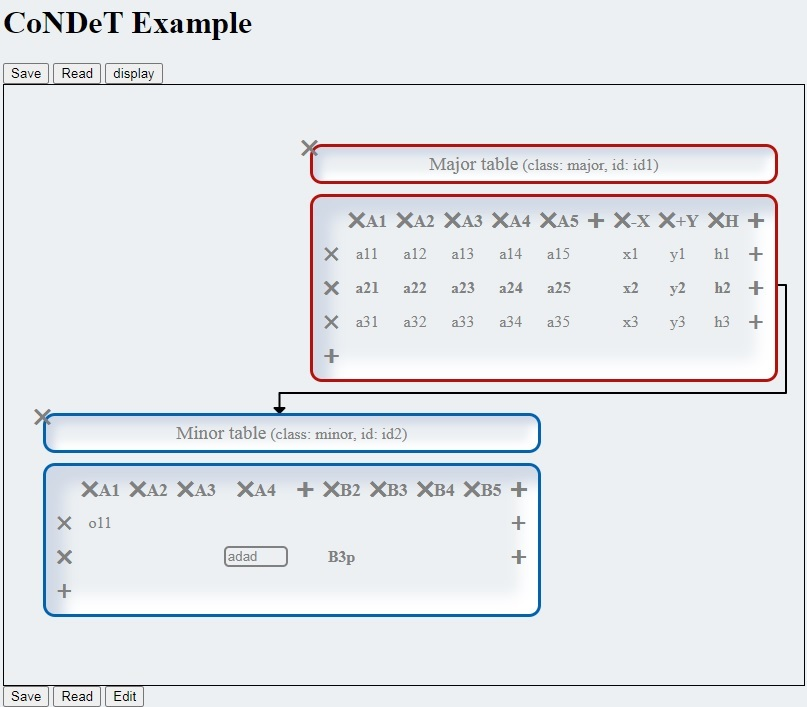
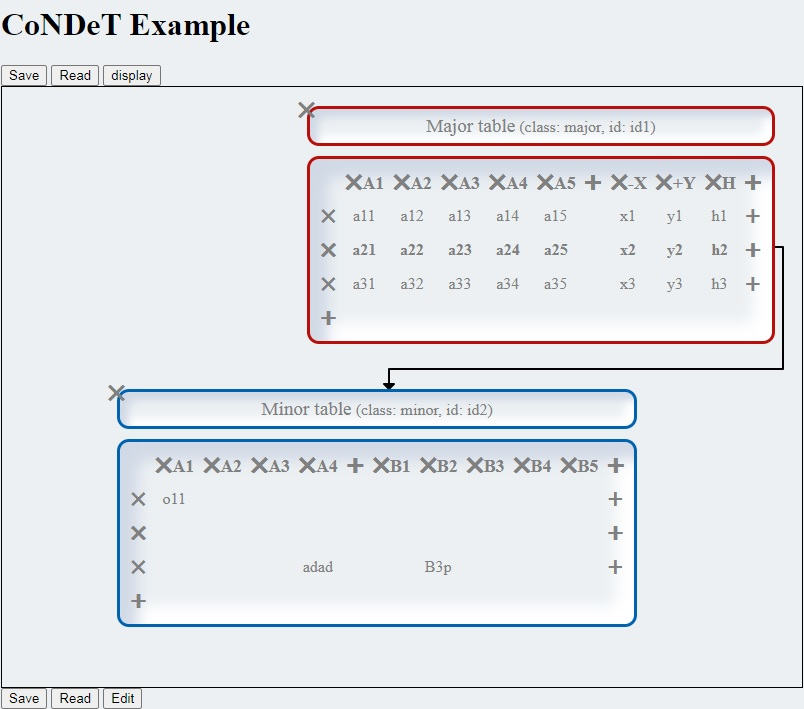
docs: modify pictrues add part of usage

diff --git a/docs/documentation.md b/docs/documentation.md
@@ -34,20 +34,124 @@ Library is fully functional with ways to improve. During development we were abl
 
 #### 4 Usage
 
+1. Ability to move ConDeT table freely on window:
+    
+    State before moving:
+    
+    ![](https://github.com/EmilSroka/CoNDeT/blob/main/docs/Pictures/Display1.jpg?raw=true )
 
-User have ability to move frely  
-![](https://github.com/EmilSroka/CoNDeT/blob/main/docs/Pictures/Displa1.jpg?raw=true )
+    State after moving:
 ![](https://github.com/EmilSroka/CoNDeT/blob/main/docs/Pictures/Displa2.jpg?raw=true )
-![](https://github.com/EmilSroka/CoNDeT/blob/main/docs/Pictures/EditMode1.jpg?raw=true)
-![](https://github.com/EmilSroka/CoNDeT/blob/main/docs/Pictures/editmode2.jpg?raw=true )
-![](https://github.com/EmilSroka/CoNDeT/blob/main/docs/Pictures/editmode3rcolumn.jpg?raw=true )
-![](https://github.com/EmilSroka/CoNDeT/blob/main/docs/Pictures/editmode4rrow.jpg?raw=true )
-![](https://github.com/EmilSroka/CoNDeT/blob/main/docs/Pictures/editmode5modifycell1.jpg?raw=true )
-![](https://github.com/EmilSroka/CoNDeT/blob/main/docs/Pictures/editmode6modiffcell2.jpg?raw=true )
-![](https://github.com/EmilSroka/CoNDeT/blob/main/docs/Pictures/editmode7modiffytableproperties.jpg?raw=true )
-![](https://github.com/EmilSroka/CoNDeT/blob/main/docs/Pictures/editmode8addconnection.jpg?raw=true )
-![](https://github.com/EmilSroka/CoNDeT/blob/main/docs/Pictures/editMode9deleteTable.jpg?raw=true )
-![](https://github.com/EmilSroka/CoNDeT/blob/main/docs/Pictures/editMode10addTable.jpg?raw=true )
+
+    As we can see tables moved in our window but their state state didn't change between them 
+
+2. Ability to change connection state in edit mode
+   
+   State before changing moving table:
+
+    ![](https://github.com/EmilSroka/CoNDeT/blob/main/docs/Pictures/EditMode1.jpg?raw=true)
+
+    State after moving table:
+
+    ![](https://github.com/EmilSroka/CoNDeT/blob/main/docs/Pictures/editmode2.jpg?raw=true )
+
+    As we can see unlike in display mode state of connection between two tables changed
+
+3.  Ability to remove column:
+
+    To remove column you need to click **X**  visable on top of choosen column in lower table
+
+    ![](https://github.com/EmilSroka/CoNDeT/blob/main/docs/Pictures/editmode3rcolumn.jpg?raw=true )
+
+    As we can see colummn B1 was deleted from Minor table
+
+4. Ability to remove row
+
+    To remove row you need click **X** visable on left side of choosen column in lower table
+
+    ![](https://github.com/EmilSroka/CoNDeT/blob/main/docs/Pictures/editmode4rrow.jpg?raw=true )
+
+    Second row in Minor table was removed
+
+5. Ability to modify cell
+
+    To modify cell we need to double click choosen cell 
+
+    ![](https://github.com/EmilSroka/CoNDeT/blob/main/docs/Pictures/editmode5modifycell1.jpg?raw=true )
+
+    After double click cell goes in edit mode and we can enter our data. To close cell edit mode we need to press **ENTER** that will close cell edit and save our modification
+
+    ![](https://github.com/EmilSroka/CoNDeT/blob/main/docs/Pictures/editmode6modiffcell2.jpg?raw=true )
+
+    We can see new data inserted into our cell
+
+6. Ability to modify table properties
+
+    To modify table properties we need to double click on top table part. That will allow us to enter edit mode  
+
+    ![](https://github.com/EmilSroka/CoNDeT/blob/main/docs/Pictures/editmode7modiffytableproperties.jpg?raw=true )
+
+    After double click we table properties goes to edit mode and we can modify them. To close edit mode and save our modifications we need to press **ENTER**
+
+    ![](https://github.com/EmilSroka/CoNDeT/blob/main/docs/Pictures/editmode7modiffytableproperties2.jpg?raw=true )
+
+    We can see modified table properties.
+
+7. Ability to add new connection
+
+    To add new conection we need to press **+** in right part of lower table from choosen row   
+
+    ![](https://github.com/EmilSroka/CoNDeT/blob/main/docs/Pictures/editmode8addconnection.jpg?raw=true )
+
+    After pressing **+** we choose table we wanted to be conected to.
+    
+    ![](https://github.com/EmilSroka/CoNDeT/blob/main/docs/Pictures/editmode8addconnection2.jpg?raw=true )
+
+    After choosing our table we can see new connection appearing 
+
+8. Ability to delete Tables
+
+    To delete our table we need to press **X** in top left corner of our table
+
+    ![](https://github.com/EmilSroka/CoNDeT/blob/main/docs/Pictures/editMode9deleteTable.jpg?raw=true )
+
+    State after deletion
+
+    ![](https://github.com/EmilSroka/CoNDeT/blob/main/docs/Pictures/editMode9deleteTable2.jpg?raw=true )
+
+
+9. Ability to add new Table
+
+    To add new Table we need to double click free space in our window
+
+    ![](https://github.com/EmilSroka/CoNDeT/blob/main/docs/Pictures/editmode10addTable.jpg?raw=true )
+
+    After double click we see new window that appered. We will see three of them showing up with each of them asking us for table properties values.
+
+    ![](https://github.com/EmilSroka/CoNDeT/blob/main/docs/Pictures/editmode10addTable2.jpg?raw=true )
+
+    As we see new table appered with data we inserted 
+
+
+10. Ability to add new columns
+
+    To add new column we need to press **+** that is in top part of lower table. First **+** allows us to add new _condition_ and second one to add new _decision value_
+
+    ![](https://github.com/EmilSroka/CoNDeT/blob/main/docs/Pictures/editmode11addcolumn.jpg?raw=true )
+
+    We see that window show up that ask us for value we wants our _condition_ or _decision value_ to has
+    
+    ![](https://github.com/EmilSroka/CoNDeT/blob/main/docs/Pictures/editmode11addcolumn2.jpg?raw=true )
+
+    We see that new columns appered
+
+11. Ability to add new row
+
+    To add new row we need to click **+** that we see in bottom left part of lower table
+
+    ![](https://github.com/EmilSroka/CoNDeT/blob/main/docs/Pictures/editmode12addrow.jpg?raw=true )
+
+    After clicking **+** sign we see new empty row that appered
 
 #### 5 Contributors
 
